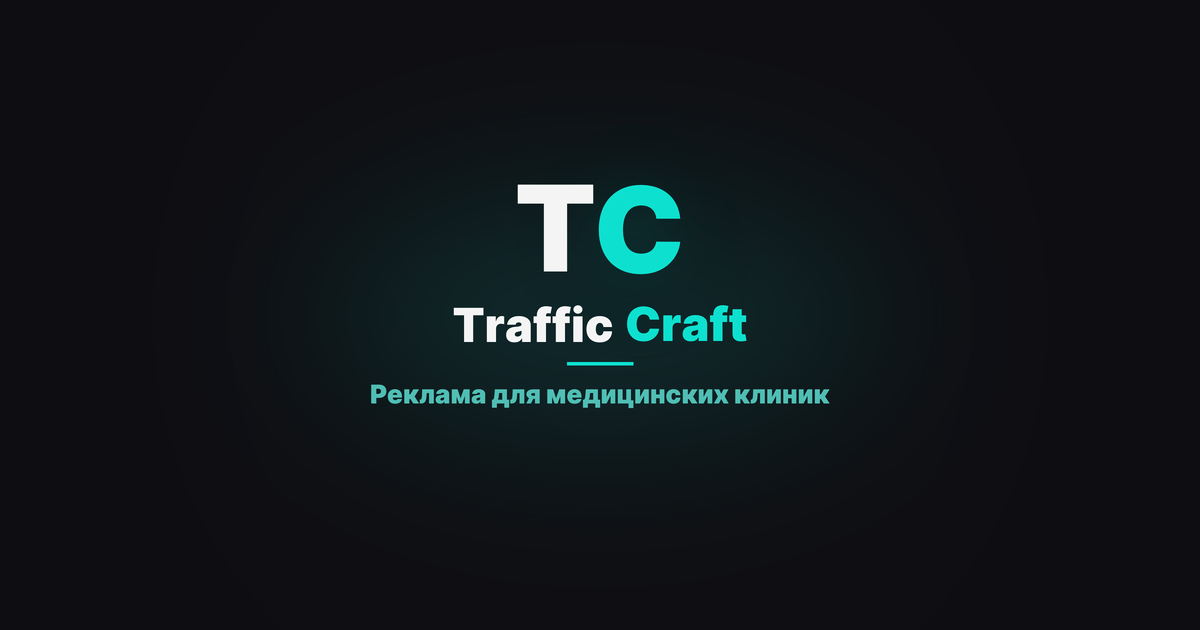
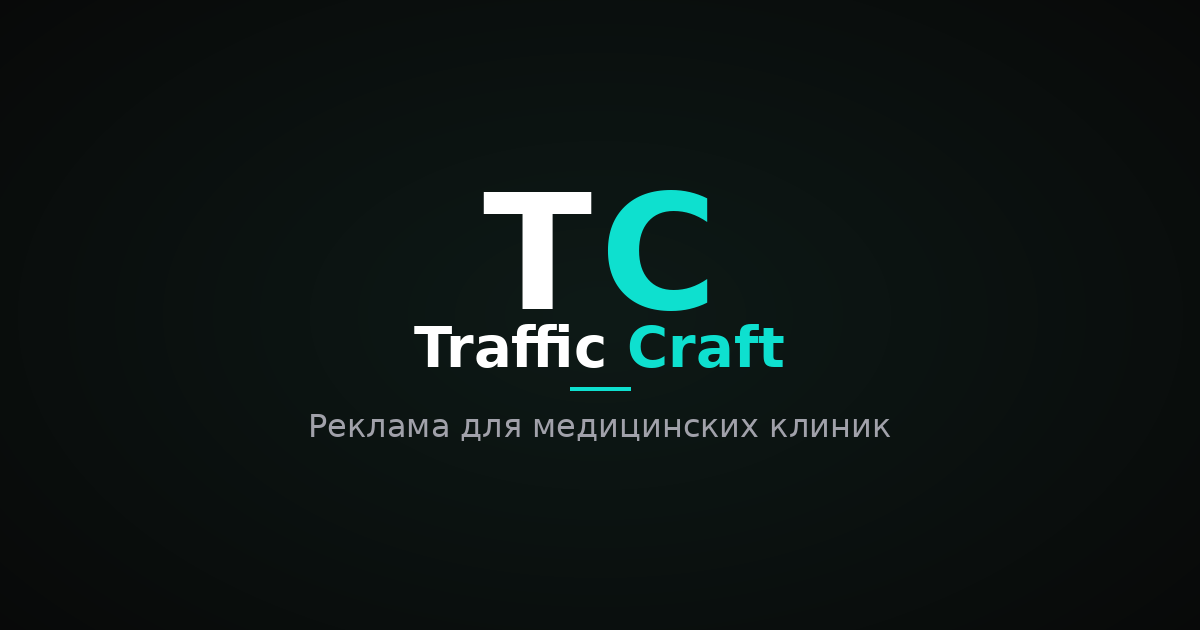
Enlarge OG image text, fix phone validation, counter easing, process chain lines, hero perf

Changed region(s): [[0.2467, 0.2714, 0.74, 0.6937]]

diff --git a/index.html b/index.html
@@ -945,7 +945,7 @@ body.cursor-hidden .cursor-dot, body.cursor-hidden .cursor-outline { opacity: 0 
         <label for="ctaName" class="cta-label">Ваше имя</label>
       </div>
       <div class="cta-input-wrap">
-        <input type="tel" id="ctaPhone" class="cta-input" placeholder=" " required inputmode="tel" aria-label="Телефон или Telegram" pattern="[0-9+@a-zA-Z_\-\s]{3,}">
+        <input type="tel" id="ctaPhone" class="cta-input" placeholder=" " required inputmode="tel" aria-label="Телефон или Telegram" minlength="3" pattern="[0-9+@a-zA-Z_\-\s]{3,}">
         <label for="ctaPhone" class="cta-label">Телефон или Telegram</label>
       </div>
       <div class="cta-input-wrap" style="width:100%;">
@@ -1132,7 +1132,7 @@ if(ctaForm) { ctaForm.addEventListener('submit', function(e) {
   const name = document.getElementById('ctaName').value.trim();
   const phone = document.getElementById('ctaPhone').value.trim();
   const project = document.getElementById('ctaProject').value.trim();
-  if(!name || name.length < 2 || !phone || phone.length < 5) return;
+  if(!name || name.length < 2 || !phone || phone.length < 3) return;
 
   btn.textContent = 'Отправляем...'; btn.style.opacity = '0.8'; btn.style.pointerEvents = 'none';
 
